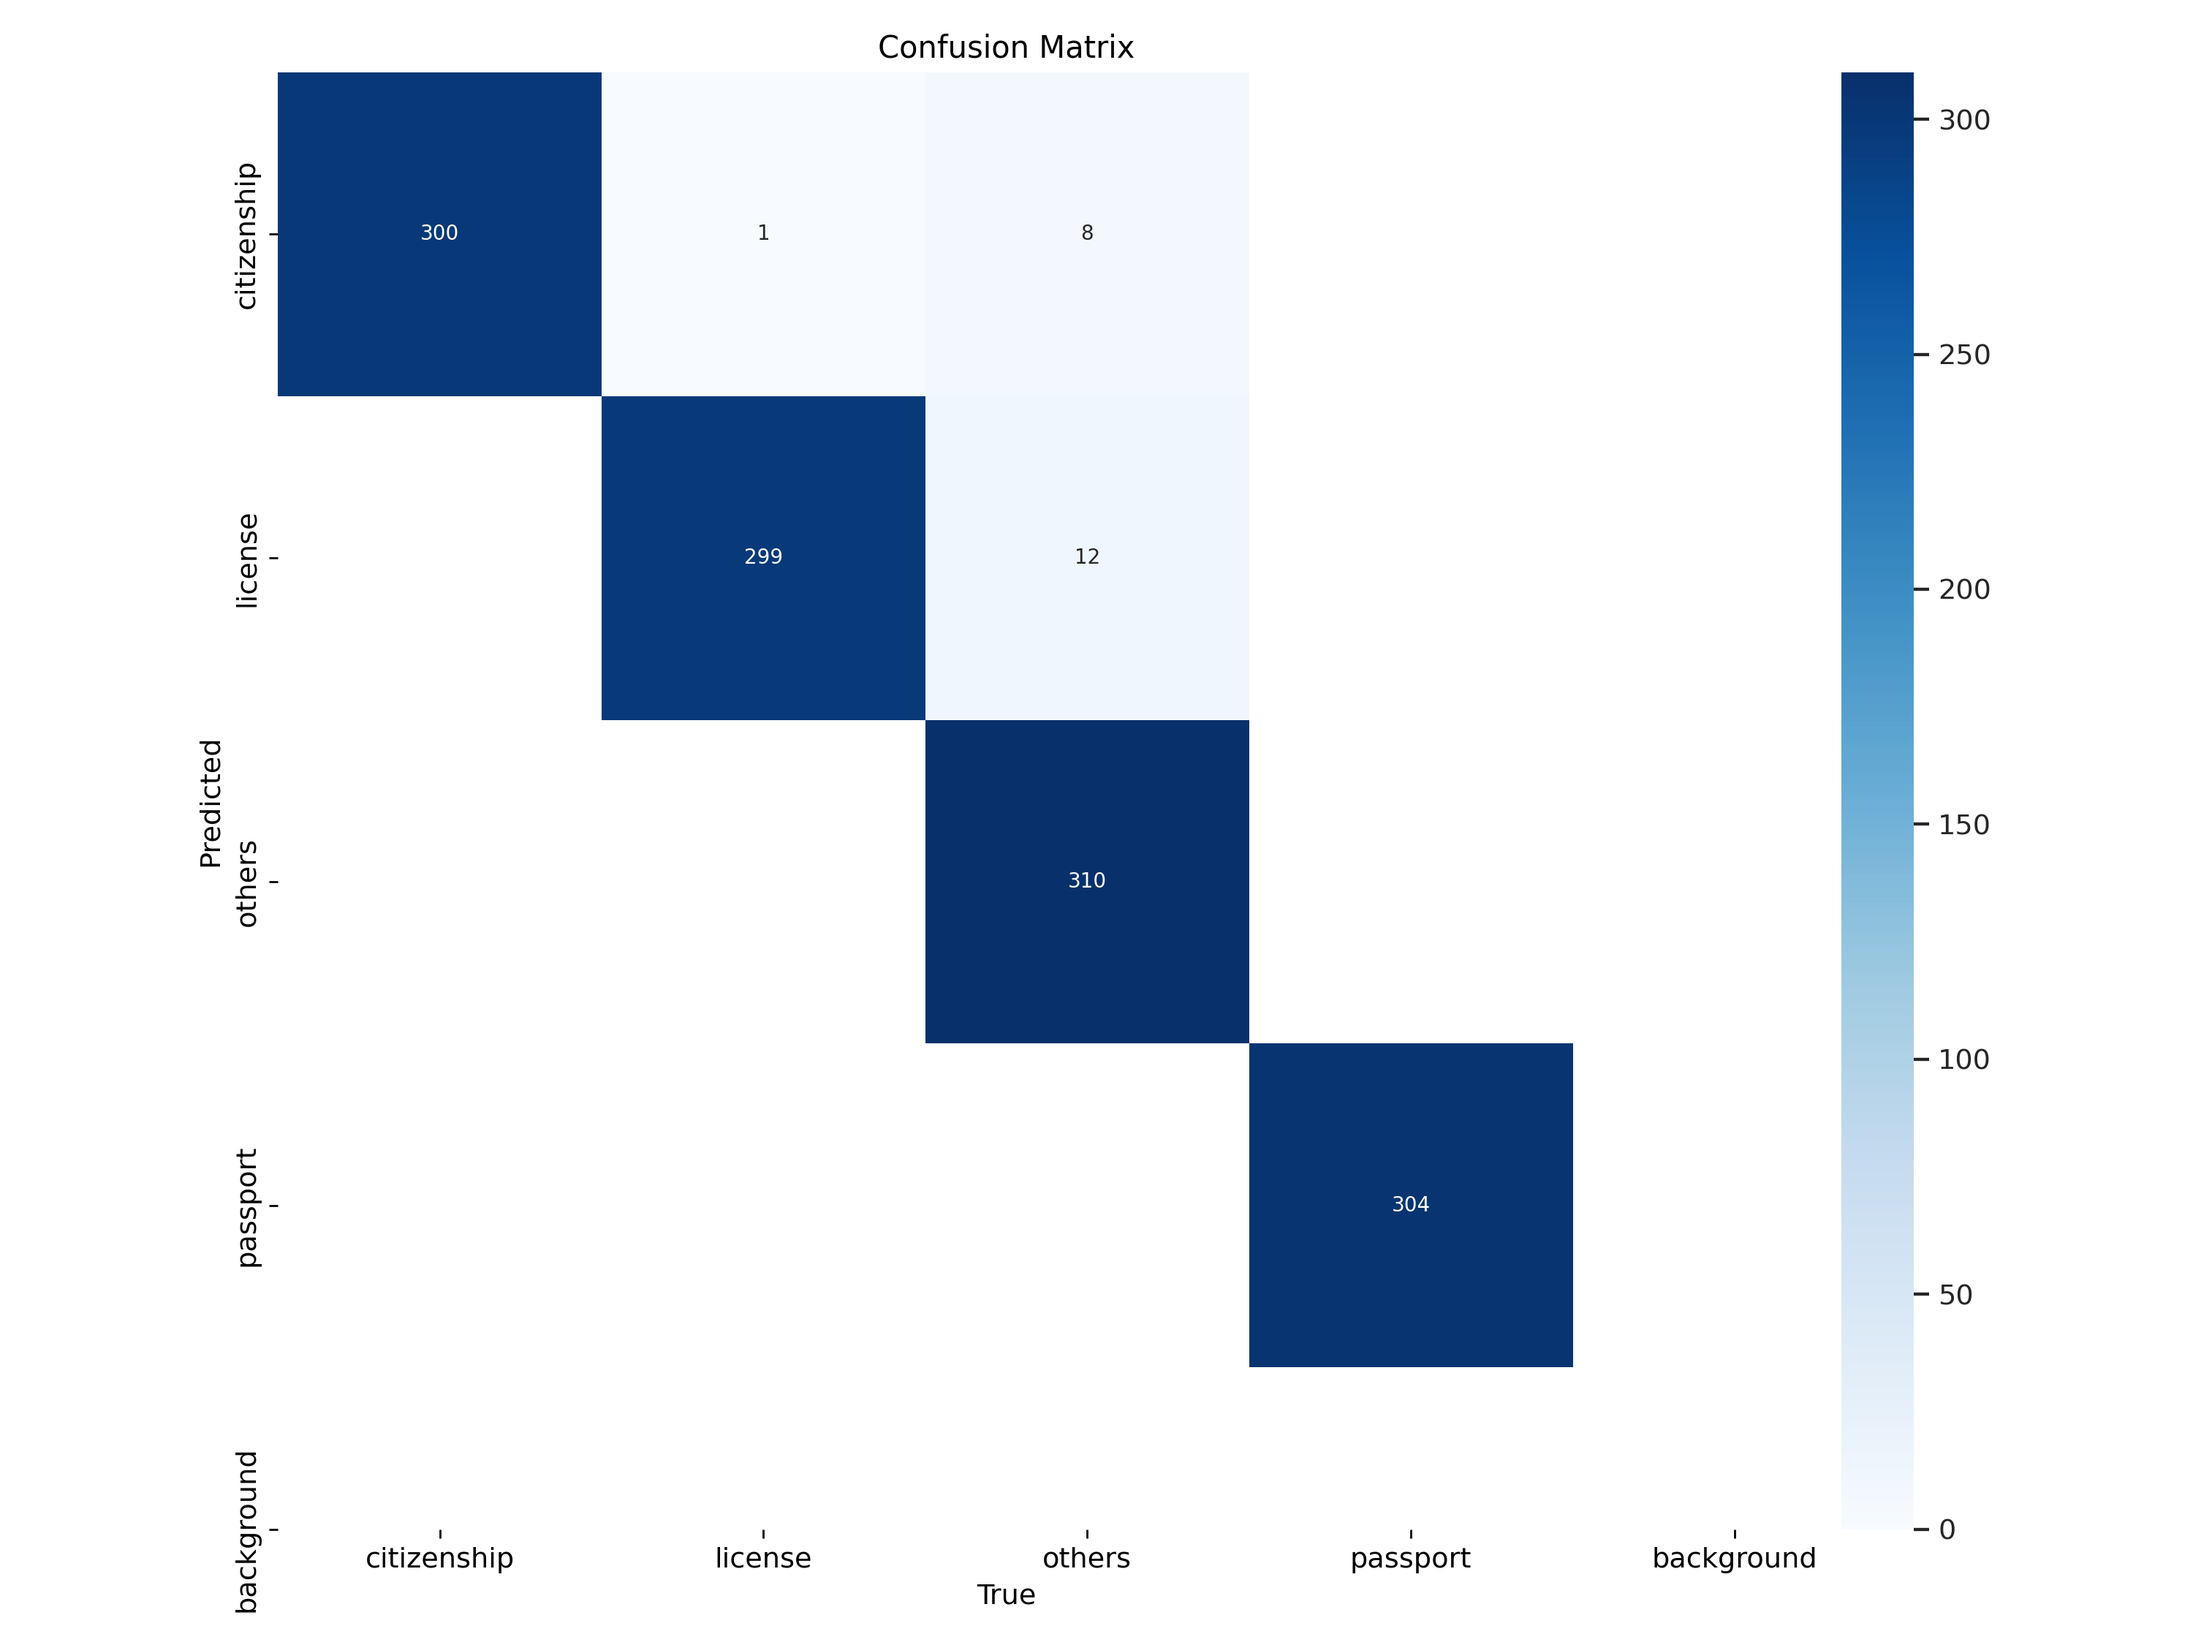
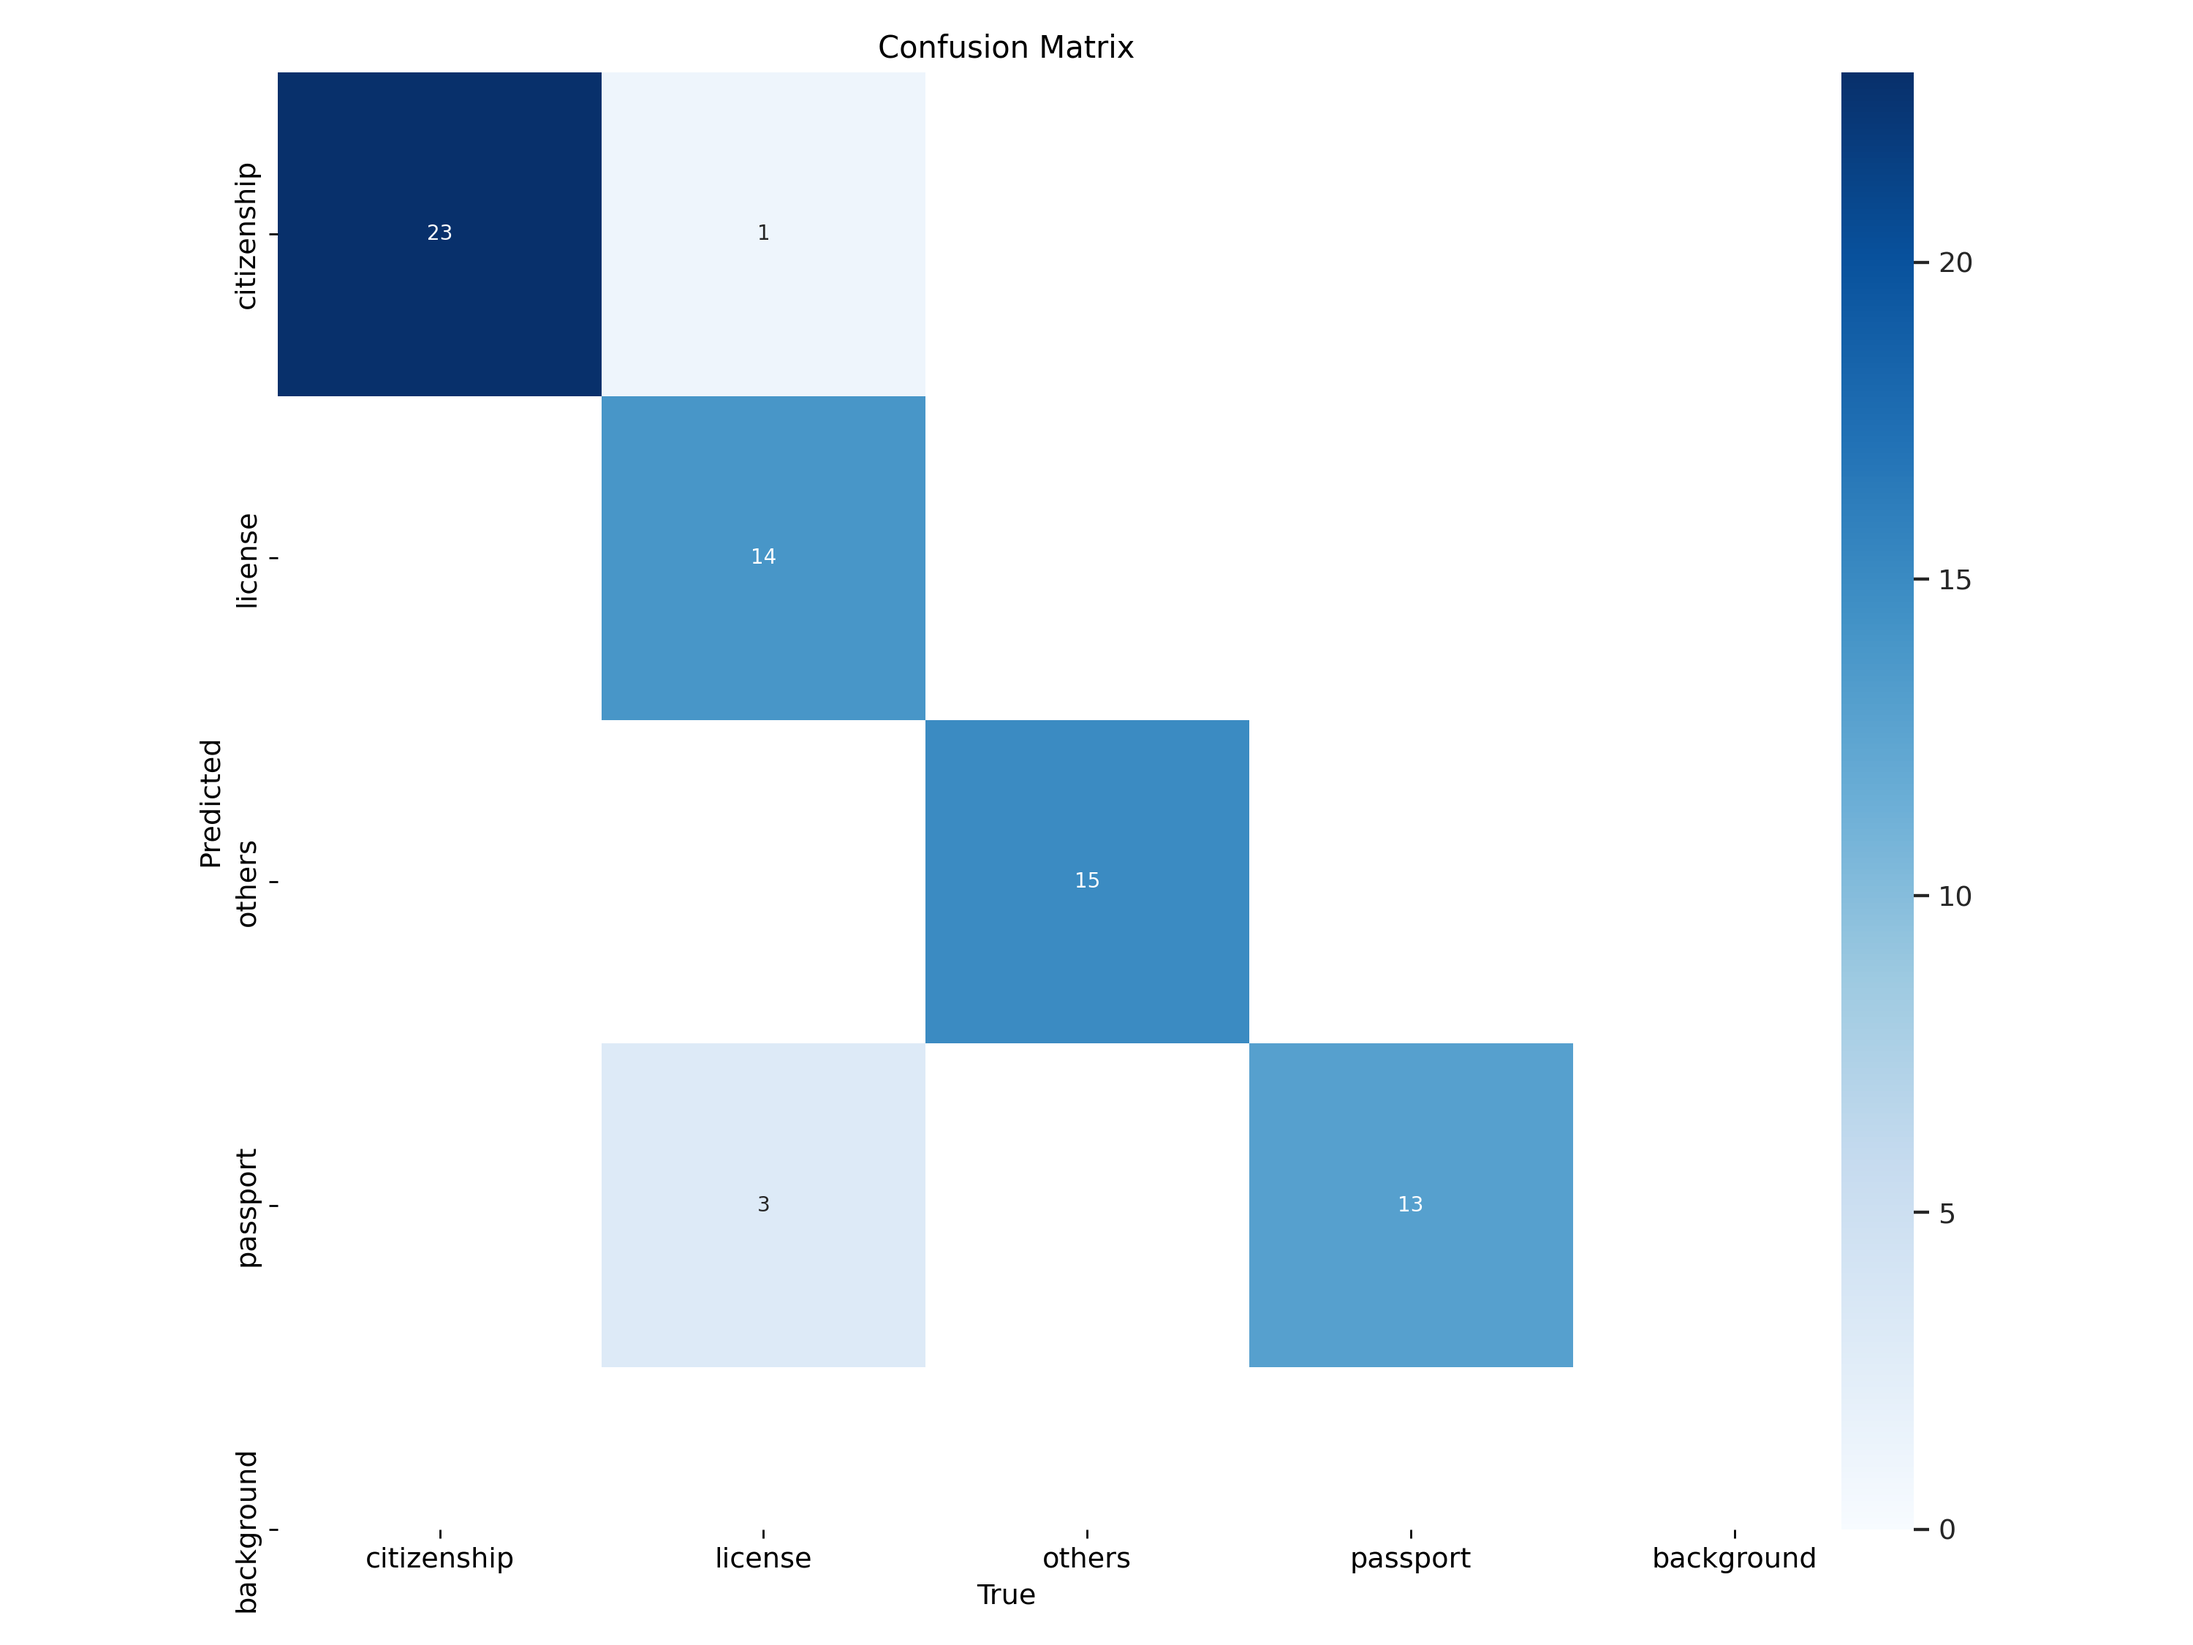
chore: Docker and readme file edited

Changed region(s): [[0.248, 0.2178, 0.744, 0.84], [0.868, 0.3422, 0.899, 0.3733]]

diff --git a/README.md b/README.md
@@ -12,7 +12,7 @@ For the document classification, we collected images for each class (passport, c
 
 ## Data Augmentation
 
-As the dataset that was collected was too small, we must augment the data for the training purpose. Augmentation is the process of increasing the data by applying different image processing techniques in the currently available data. By performing the task like rotating, adding noise, up-scaling, down-scaling, lightening, wrapping and so on the data is being augmented.  We perform augmentation and prepare data set about 3625 for training and 1234 for validation set. The data are used for preparing the model.
+As the dataset that was collected was too small, we must augment the data for the training purpose. Augmentation is the process of increasing the data by applying different image processing techniques in the currently available data. By performing the task like rotating, adding noise, up-scaling, down-scaling, lightening, wrapping and so on the data is being augmented.  We perform augmentation and prepare data set about 3625 for training and 1234 for test set. The data are used for preparing the model. The seperate 63 images of the classes were collected for validation set.
 
 # Week 3
 
@@ -57,3 +57,12 @@ We trained the data using the YOLO, VGG16, VGG19, Resnet50 and custom CNN model.
 ### Models
 
 The model are available <a href='https://drive.google.com/file/d/178aHLpM_sxy_KZsvEBnidT-zFZwV173W/view?usp=sharing'> here </a>.
+
+# Week 4
+
+In week 4, we created the streamlit app for the document classification. For document classification we used 2 model. We created the different pages for selection of the model for document classification.
+
+We also created the container and push it to the docker hub. The docker file can be pulled using following code:
+```bash
+docker pull sonishmaharjan555/document_classifier:v1.4
+```
